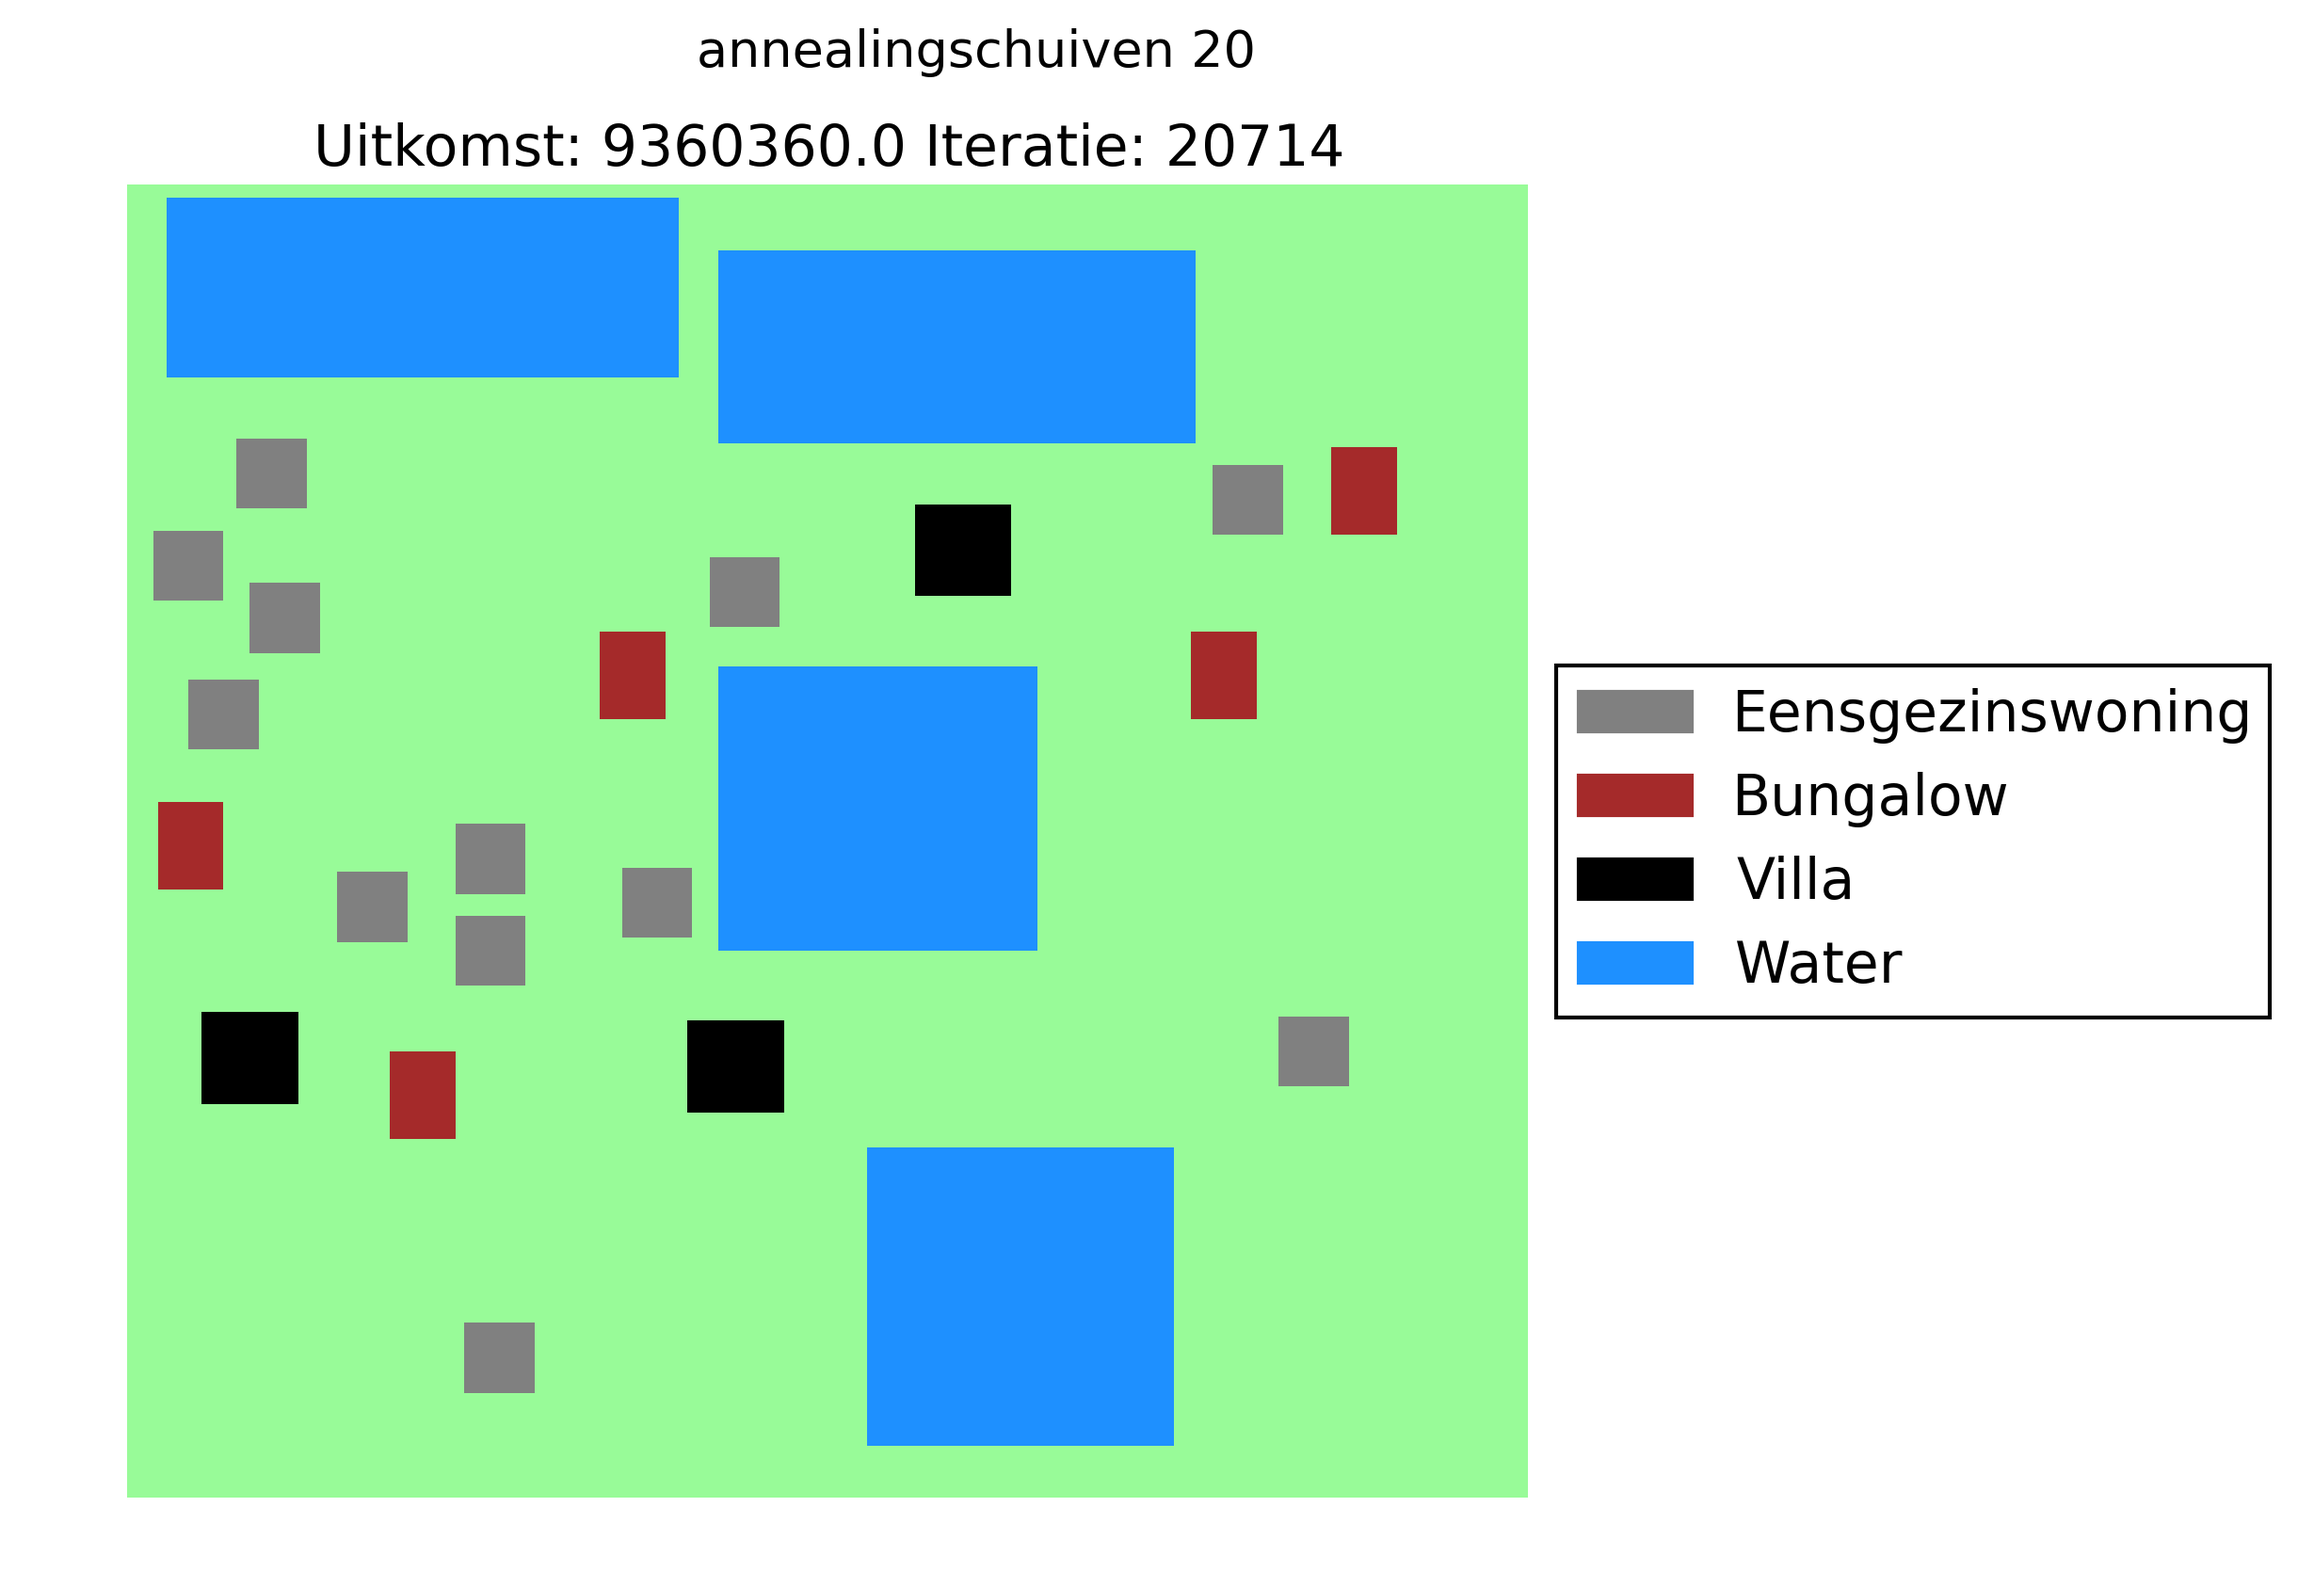
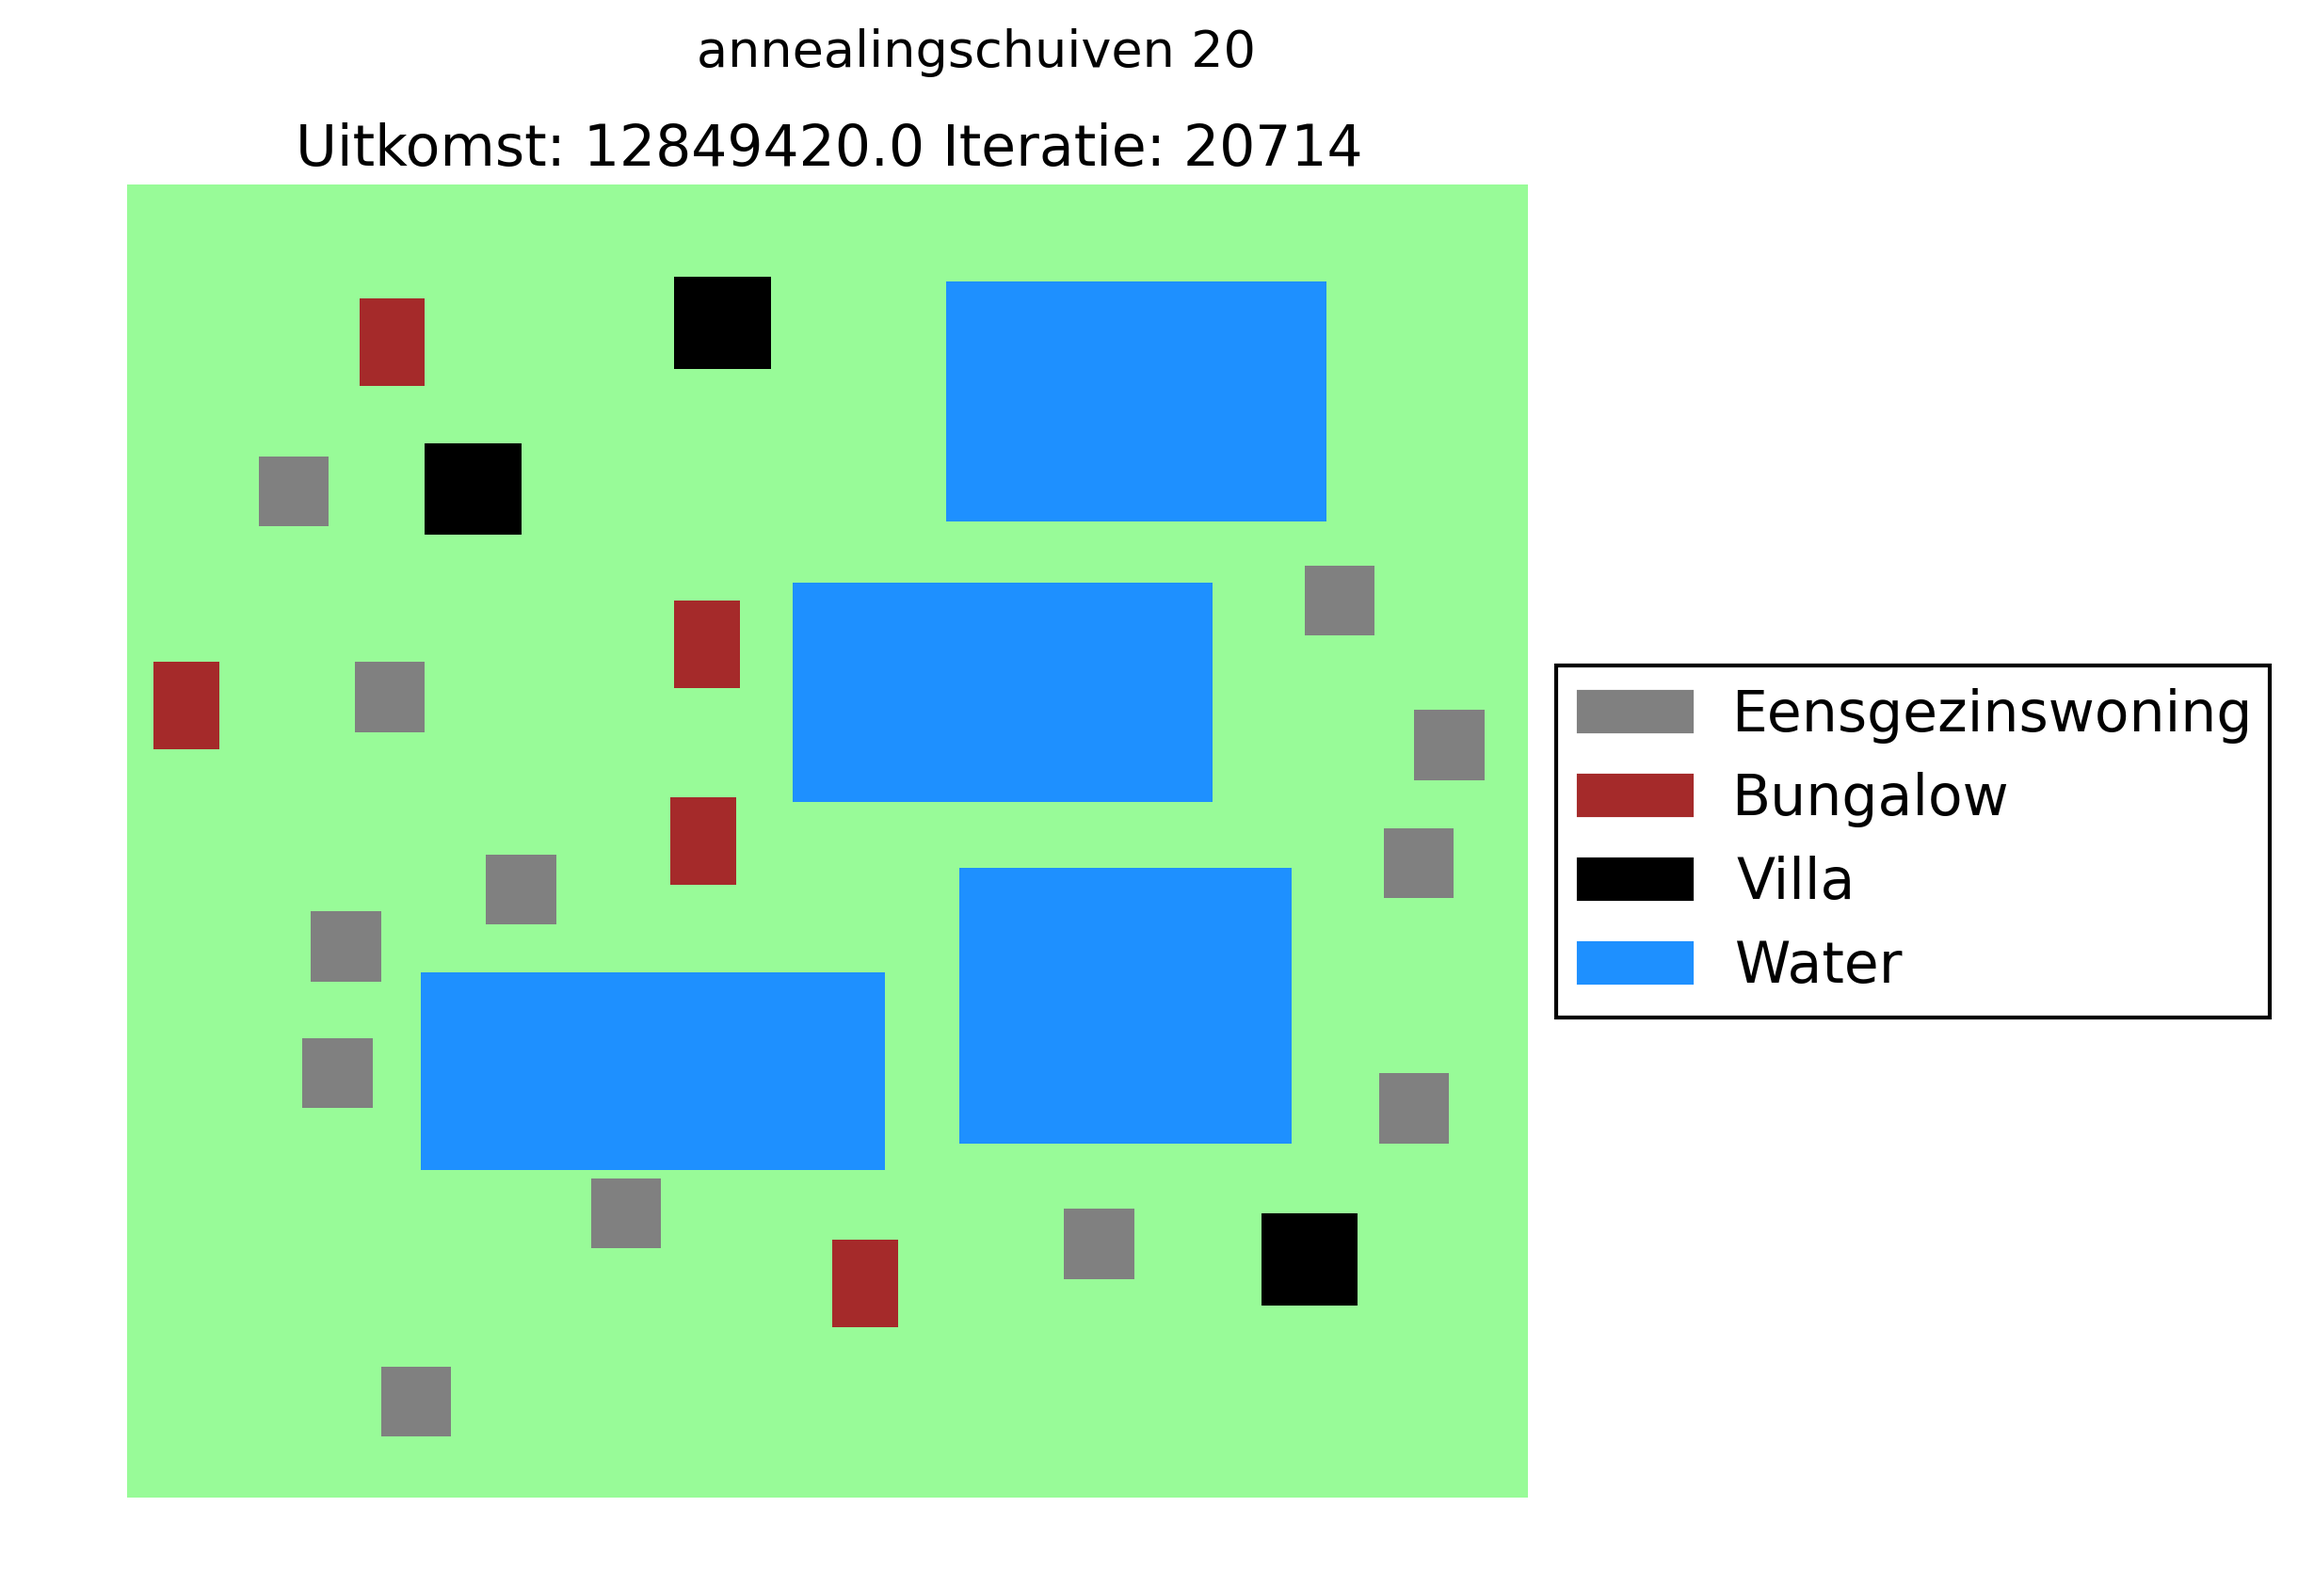
Experiments in Simulated Annealing XVIII (6th Ed.)

diff --git a/main.py b/main.py
@@ -11,10 +11,9 @@
 #TODO: Alles Runnen:
 #       (Vraag desnoods familie/vrienden of zij het programma kunnen draaien een nachtje)
 #       (Indien nodig kan ik wel een handleiding maken)
-#           Randsample vrijstand:                   40(nu bezig)
 #           Randsample waarde:                                      60(Jordi)
-#           Schuiven vrijstand:                     40(Joey)        60(Jordi?)
-#           Schuiven waarde:                        40              60(Jordi?)
+#           Schuiven vrijstand:                     40(Nu bezig)    60(Jordi)
+#           Schuiven waarde:                        40(Kayleigh)    60(Jordi)
 #           Swappen vrijstand:      20              40              60
 #           Swappen waarde:         20              40              60
 #           Schuiven+Swappen vrijstand: 20, 40, 60
@@ -38,6 +37,7 @@ import sys
 import random
 import matplotlib.pyplot as plt
 import math
+import copy
 from combination import Combination
 from graph import *
 from schuiven import schuiven
@@ -72,12 +72,15 @@ def informWrongUsage():
 
 def annealingKans(nieuw, oud, temperatuur):
     # bereken verschil, wanneer de nieuwe lager is dan de oude -> negatieve waarde
+    # bijv nieuw = 20, oud = 25, verschil is -5
     verschil = nieuw - oud
     #wanneer nieuwe beter is dan oude (hoger dus), sowieso aannemen
     if verschil > 0:
-        return 1.0
+        kans = 1.0
     else:
-        return math.exp(verschil/temperatuur)
+        kans = (math.exp(verschil/temperatuur))
+    print kans
+    return kans
 
 # toegestane opties command line arguments
 toegestanehuizen = [20,40,60]
@@ -297,22 +300,21 @@ elif str(sys.argv[2]) == "schuifswap":
 elif str(sys.argv[2]) == "annealingschuiven":
     plt.title('Amstelhaege Simulated Annealing Schuiven')
     combinatie = createRandom()
+    oldcombi = copy.deepcopy(combinatie)
     while True:
         iteratie += 1
-        oldcombi = combinatie
         if schuiven(combinatie) == True:
             combinatie.evalueer()
-            temp = combinatie.evaluatie
-            kans = annealingKans(temp[criterium], oldcombi.evaluatie[criterium], temperatuur)
-            if random.random() <= kans:
+            kans = annealingKans(combinatie.evaluatie[criterium], oldcombi.evaluatie[criterium], temperatuur)
+            if random.random() < kans:
                 # bewaar nieuwe combinatie
-                pass
+                oldcombi = copy.deepcopy(combinatie)
             else:
                 # houd oude combi
-                combinatie = oldcombi
+                combinatie = copy.deepcopy(oldcombi)
                 combinatie.evalueer()
                 temp = combinatie.evaluatie
-            hoogstewaarde = temp[criterium]
+            hoogstewaarde = combinatie.evaluatie[criterium]
         uitkomsten.append(hoogstewaarde)
         iteraties.append(iteratie)
         if temperatuur < gestoldbij:
